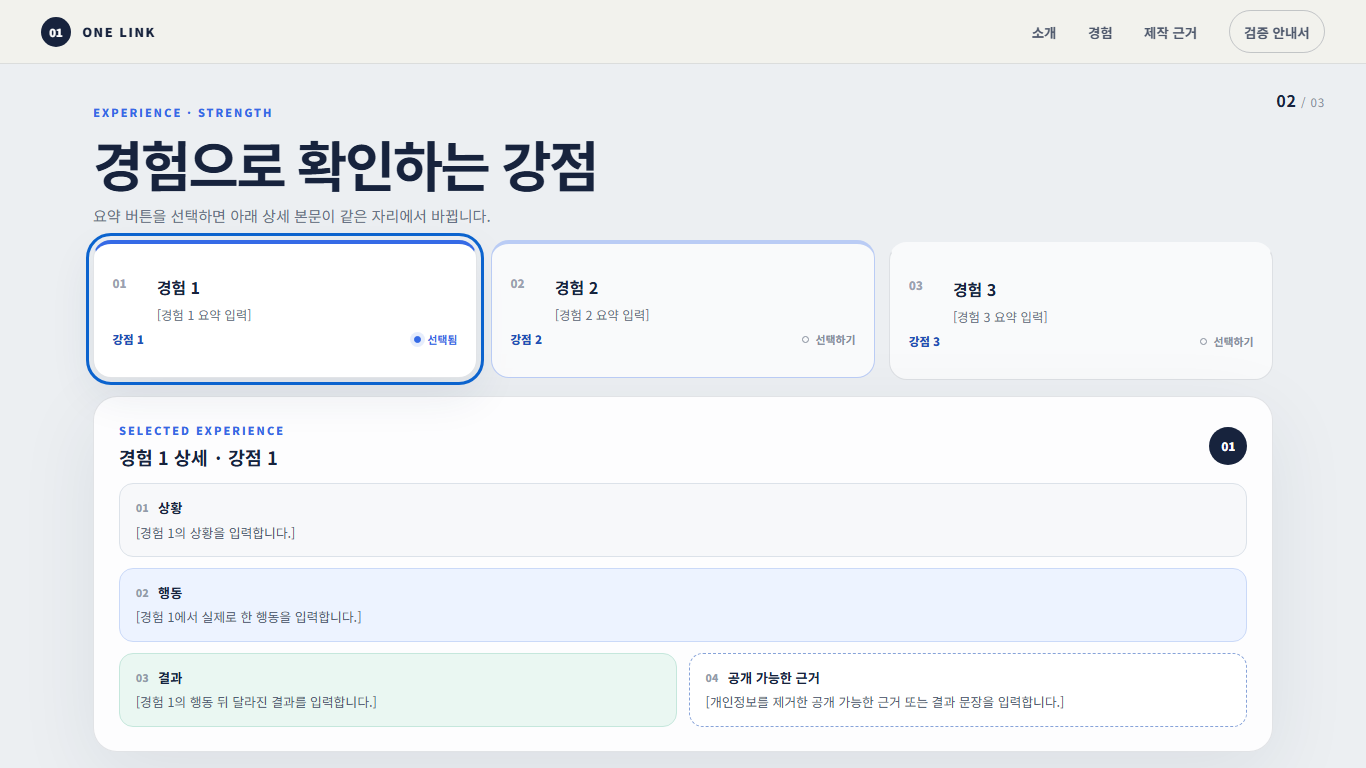
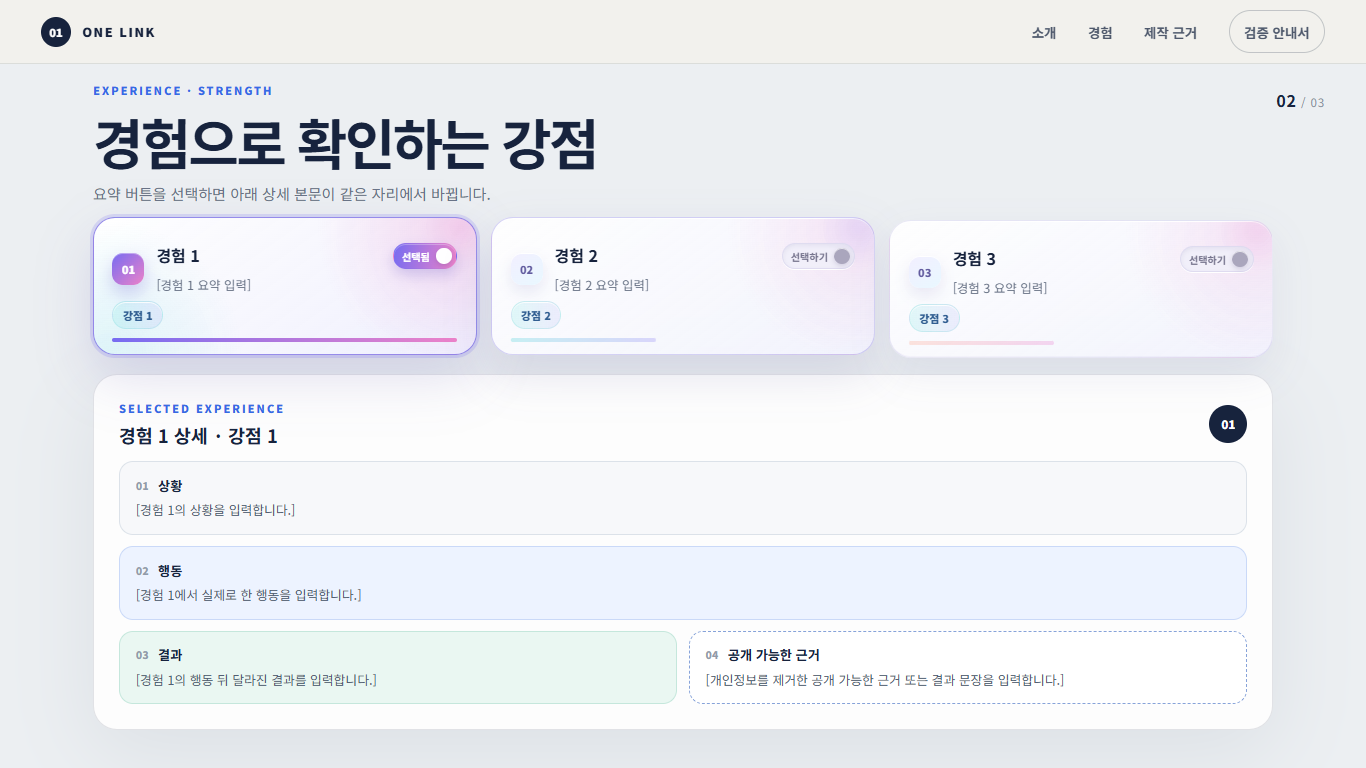
블록 디자인, 본문 상하단 정렬 수정

diff --git a/src/styles.css b/src/styles.css
@@ -136,7 +136,10 @@ img { max-width: 100%; height: auto; }
 .ambient-one { width: 38vw; aspect-ratio: 1; left: 0; top: 17%; background: radial-gradient(circle, rgba(53,106,230,0.14), transparent 68%); animation: drift-a 20s ease-in-out infinite alternate; }
 .ambient-two { width: 32vw; aspect-ratio: 1; right: 0; bottom: 0; background: radial-gradient(circle, rgba(101,199,181,0.2), transparent 66%); animation: drift-b 24s ease-in-out infinite alternate; }
 
-.experiences-panel { padding: 104px 0 70px; background: #eceff2; overflow: visible; }
+.experiences-panel {
+  display: grid; align-items: center;
+  padding: 76px 0 32px; background: #eceff2; overflow: visible;
+}
 .experience-inner { display: grid; gap: 1rem; }
 .section-heading { max-width: 760px; }
 .section-heading h2, .verification-heading h2 {
@@ -147,23 +150,96 @@ img { max-width: 100%; height: auto; }
   display: grid; grid-template-columns: repeat(3, minmax(0, 1fr)); gap: 0.9rem;
 }
 .experience-button {
-  min-width: 0; min-height: 138px; display: grid; grid-template-columns: auto 1fr;
-  grid-template-areas: "num title" "num summary" "strength state";
-  gap: 0.45rem 0.8rem; align-content: center; padding: 1rem 1.15rem;
-  text-align: left; border: 1px solid rgba(23,35,61,0.12); border-top: 4px solid transparent;
-  border-radius: var(--radius-md); background: rgba(255,255,255,0.7); cursor: pointer;
+  --card-accent-a: #776cf1;
+  --card-accent-b: #ec82c9;
+  position: relative; min-width: 0; min-height: 138px;
+  display: grid; grid-template-columns: 32px minmax(0, 1fr) auto;
+  grid-template-areas: "num title state" "num summary summary" "strength strength strength";
+  gap: 0.45rem 0.75rem; align-content: center; padding: 1.05rem 1.15rem;
+  overflow: hidden; text-align: left; border: 1px solid rgba(102,94,181,0.13);
+  border-radius: 22px;
+  background:
+    radial-gradient(circle at 96% 8%, rgba(236,130,201,0.18), transparent 34%),
+    linear-gradient(145deg, rgba(255,255,255,0.95), rgba(243,244,255,0.82));
+  cursor: pointer; backdrop-filter: blur(14px);
+  box-shadow:
+    0 16px 38px rgba(76,74,143,0.09),
+    inset 0 1px 0 rgba(255,255,255,0.96),
+    inset 0 -1px 0 rgba(108,99,194,0.05);
   transition: transform 180ms ease, border-color 180ms ease, background 180ms ease, box-shadow 180ms ease;
 }
-.experience-button:hover { transform: translateY(-2px); border-color: rgba(53,106,230,0.32); }
-.experience-button.is-active { border-top-color: var(--blue); background: white; box-shadow: 0 16px 46px rgba(30,50,88,0.09); transform: translateY(-2px); }
-.experience-number { grid-area: num; align-self: start; color: #9aa2b0; font-size: 0.72rem; font-weight: 800; }
+.experience-button:nth-child(2) { --card-accent-a: #36cad2; --card-accent-b: #8175f1; }
+.experience-button:nth-child(3) { --card-accent-a: #ff9a7e; --card-accent-b: #e56fc7; }
+.experience-button::before {
+  content: ""; position: absolute; z-index: 2; inset: auto 1.15rem 0.75rem;
+  height: 4px; border-radius: 999px;
+  background: linear-gradient(90deg, var(--card-accent-a), var(--card-accent-b));
+  opacity: 0.26; transform: scaleX(0.42); transform-origin: left;
+  transition: opacity 180ms ease, transform 180ms ease;
+}
+.experience-button::after {
+  content: ""; position: absolute; z-index: 0; width: 86px; height: 86px;
+  right: -28px; top: -34px; border-radius: 50%;
+  background: radial-gradient(circle, var(--card-accent-b) 0%, transparent 68%);
+  opacity: 0.13; filter: blur(4px); pointer-events: none;
+}
+.experience-button > * { position: relative; z-index: 1; }
+.experience-button:hover {
+  transform: translateY(-3px); border-color: rgba(113,102,220,0.28);
+  box-shadow: 0 20px 44px rgba(76,74,143,0.14), inset 0 1px 0 white;
+}
+.experience-button.is-active {
+  transform: translateY(-3px); border-color: rgba(112,99,226,0.38);
+  background:
+    radial-gradient(circle at 96% 6%, rgba(236,130,201,0.27), transparent 37%),
+    radial-gradient(circle at 4% 100%, rgba(77,218,218,0.16), transparent 34%),
+    linear-gradient(145deg, rgba(255,255,255,0.98), rgba(239,239,255,0.9));
+  box-shadow:
+    0 22px 52px rgba(82,74,166,0.17),
+    inset 0 1px 0 white,
+    inset 0 0 28px rgba(132,114,239,0.05);
+}
+.experience-button.is-active::before { opacity: 1; transform: scaleX(1); }
+.experience-button:focus-visible {
+  outline: none; border-color: rgba(112,99,226,0.72);
+  box-shadow: 0 0 0 3px rgba(119,108,241,0.2), 0 22px 52px rgba(82,74,166,0.17);
+}
+.experience-number {
+  grid-area: num; align-self: center; width: 32px; height: 32px;
+  display: grid; place-items: center; border-radius: 11px;
+  color: #625c9f; background: linear-gradient(145deg, #f2efff, #e9f8ff);
+  box-shadow: 0 7px 16px rgba(91,83,170,0.12), inset 0 1px 0 white;
+  font-size: 0.68rem; font-weight: 850;
+}
+.is-active .experience-number {
+  color: white; background: linear-gradient(135deg, var(--card-accent-a), var(--card-accent-b));
+  box-shadow: 0 8px 18px rgba(99,87,205,0.28), inset 0 1px 0 rgba(255,255,255,0.38);
+}
 .experience-button strong { grid-area: title; font-size: 1rem; }
 .experience-summary { grid-area: summary; color: var(--muted); font-size: 0.78rem; overflow-wrap: anywhere; }
-.experience-strength { grid-area: strength; align-self: end; color: var(--blue-dark); font-size: 0.72rem; font-weight: 800; }
-.selection-state { grid-area: state; justify-self: end; display: inline-flex; align-items: center; gap: 0.4rem; color: #858d9b; font-size: 0.68rem; font-weight: 750; }
-.selection-state > span { width: 7px; height: 7px; border: 1.5px solid currentColor; border-radius: 50%; }
-.is-active .selection-state { color: var(--blue); }
-.is-active .selection-state > span { background: currentColor; box-shadow: 0 0 0 4px rgba(53,106,230,0.12); }
+.experience-strength {
+  grid-area: strength; justify-self: start; align-self: end;
+  padding: 0.3rem 0.6rem; border: 1px solid rgba(83,198,207,0.2); border-radius: 999px;
+  color: #315e91; background: linear-gradient(90deg, rgba(88,225,218,0.17), rgba(123,108,239,0.1));
+  box-shadow: inset 0 1px 0 rgba(255,255,255,0.85); font-size: 0.68rem; font-weight: 800;
+}
+.selection-state {
+  grid-area: state; justify-self: end; display: inline-flex; align-items: center; gap: 0.38rem;
+  padding: 0.24rem 0.28rem 0.24rem 0.52rem; border: 1px solid rgba(101,93,178,0.12); border-radius: 999px;
+  color: #77758e; background: rgba(240,239,249,0.88);
+  box-shadow: inset 0 2px 5px rgba(66,61,125,0.08), 0 1px 0 white;
+  font-size: 0.63rem; font-weight: 780;
+}
+.selection-state > span {
+  display: block; order: 2; width: 16px; height: 16px; border-radius: 50%;
+  background: #aaa6bd; box-shadow: 0 2px 6px rgba(52,46,100,0.22), inset 0 1px 0 rgba(255,255,255,0.7);
+}
+.is-active .selection-state {
+  color: white; border-color: transparent;
+  background: linear-gradient(100deg, var(--card-accent-a), var(--card-accent-b));
+  box-shadow: 0 6px 14px rgba(100,88,199,0.25), inset 0 1px 0 rgba(255,255,255,0.28);
+}
+.is-active .selection-state > span { background: white; }
 
 .experience-detail {
   padding: clamp(1.1rem, 2vw, 1.55rem); border-radius: var(--radius-lg);
@@ -184,7 +260,10 @@ img { max-width: 100%; height: auto; }
 .detail-heading h3 { margin: 0; font-size: 0.82rem; color: var(--ink); }
 .detail-block p { margin: 0; color: #535e72; font-size: 0.8rem; line-height: 1.55; overflow-wrap: anywhere; }
 
-.proof-panel { padding: 110px 0 80px; background: var(--ink); color: #f7f8fb; overflow: visible; }
+.proof-panel {
+  display: grid; align-items: center;
+  padding: 76px 0 32px; background: var(--ink); color: #f7f8fb; overflow: visible;
+}
 .proof-panel .section-index strong, .proof-panel .eyebrow, .proof-panel .block-label { color: #8cb0ff; }
 .proof-inner { display: grid; gap: 1.4rem; }
 .proof-panel .section-heading > p:last-child { color: #aab3c4; }

diff --git a/tests/page.spec.js b/tests/page.spec.js
@@ -85,6 +85,29 @@ test("경험 선택이 클릭·Enter·Space에서 작동함", async ({ page }) =
   await page.screenshot({ path: resolve(evidenceDir, "interaction-check.png"), fullPage: false });
 });
 
+test("경험과 제작 근거 본문이 화면의 위아래 중앙에 배치됨", async ({ page }) => {
+  const viewport = { width: 1366, height: 768 };
+  const errors = await captureConsole(page);
+  await page.setViewportSize(viewport);
+  await page.goto("./", { waitUntil: "networkidle" });
+
+  for (const item of [
+    { section: "#experiences", content: ".experience-inner", screenshot: "experience-centered.png" },
+    { section: "#proof", content: ".proof-inner", screenshot: "proof-centered.png" },
+  ]) {
+    await page.locator(item.section).evaluate((element) => element.scrollIntoView({ block: "start", behavior: "instant" }));
+    await page.waitForTimeout(850);
+    await page.evaluate(() => document.activeElement?.blur());
+    const box = await page.locator(item.content).boundingBox();
+    expect(box).not.toBeNull();
+    const centerOffset = Math.abs(box.y + (box.height / 2) - (viewport.height / 2));
+    expect(centerOffset).toBeLessThanOrEqual(40);
+    await page.screenshot({ path: resolve(evidenceDir, item.screenshot), fullPage: false });
+  }
+
+  await expect(errors).toEqual([]);
+});
+
 test("검증 안내서가 공개 경로에서 열림", async ({ page }) => {
   const errors = await captureConsole(page);
   await page.setViewportSize({ width: 1366, height: 768 });

diff --git a/playwright.config.js b/playwright.config.js
@@ -1,5 +1,7 @@
 import { defineConfig } from "@playwright/test";
 
+const localBrowserPath = process.env.ONE_LINK_BROWSER_PATH;
+
 export default defineConfig({
   testDir: "./tests",
   timeout: 30_000,
@@ -8,6 +10,7 @@ export default defineConfig({
   use: {
     baseURL: "http://127.0.0.1:4173/one-link-portfolio/",
     browserName: "chromium",
+    launchOptions: localBrowserPath ? { executablePath: localBrowserPath } : undefined,
     colorScheme: "light",
     locale: "ko-KR",
   },

diff --git a/index.html b/index.html
@@ -2,6 +2,7 @@
 <html lang="ko">
   <head>
     <meta charset="UTF-8" />
[1 lines of base64/hex data omitted]
     <meta name="viewport" content="width=device-width, initial-scale=1.0" />
     <meta name="description" content="경험과 검증 가능한 근거로 강점을 보여주는 한 페이지 포트폴리오" />
     <meta name="theme-color" content="#f4f2ec" />

diff --git a/verification.html b/verification.html
@@ -2,6 +2,7 @@
 <html lang="ko">
   <head>
     <meta charset="UTF-8" />
[1 lines of base64/hex data omitted]
     <meta name="viewport" content="width=device-width, initial-scale=1.0" />
     <meta name="description" content="포트폴리오 공개 범위, 품질 검사와 제출 검증 안내서" />
     <meta name="theme-color" content="#f4f2ec" />
